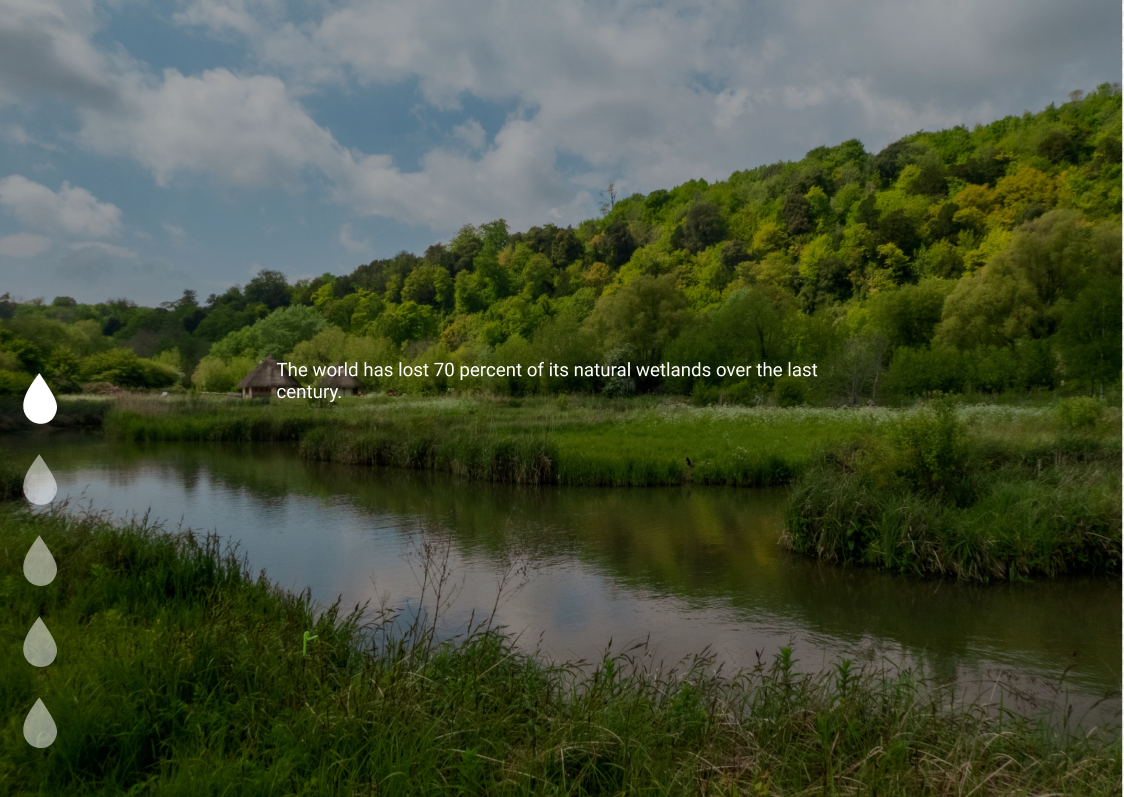
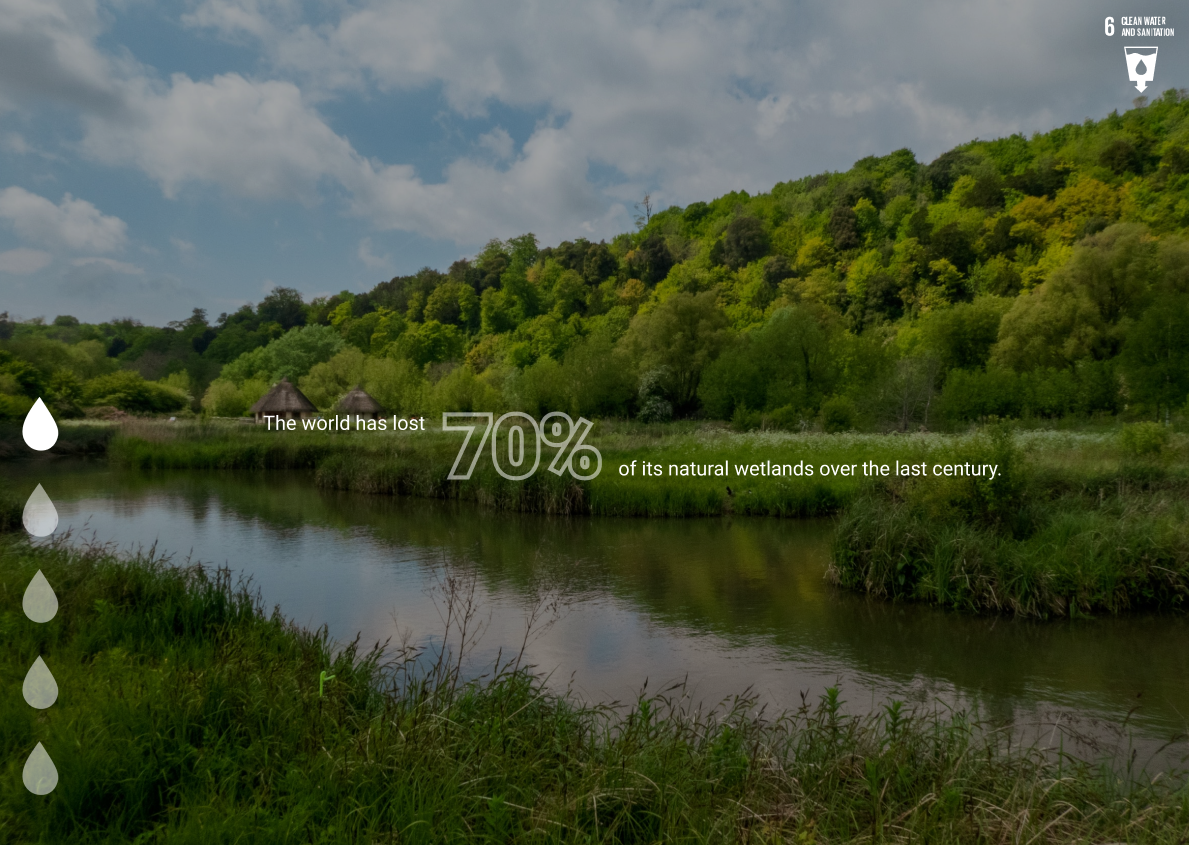
Storyborad changes

diff --git a/README.md b/README.md
@@ -37,11 +37,30 @@ Different background pictures that changes from every scene with information abo
 #### Animation on scene 1: 
 When the user starts to scroll vertically a water drop from the glass will loosen and move from the glas and go down to the bottom of the scene as the same speed as the user scroll. When the water drop starts to move, the logo shrinks and goes to the right top corner of the page. The logo will stick to the corner and stay there through the whole scrollytelling. 
 
+#### Animations on scene 2:
+First will 40% appear, then the text over 40%. This will stand still when the user scrolls. However, the other text scrolls with the user.
+
+#### Animation on scene 6: 
+The text appears in three parts 
+    the world has lost
+    70%
+    of its natural wetlands over the last century
+
+and it is some animation on 70%
 #### Animation on scene 7: 
 Many water drops are moving from the top to the bottom. The water drops are moving behind the text. 
 
+#### Animation on scene 8: 
+The lid to the garbage can moves up and down. 
+
+#### Animation on scene 9: 
+The water glass is filled with water, the animation makes the water go from full to empty. The water glass should be white. 
+
+#### Animation on scene 10: 
+The 2030 is blinking. 
+
 #### Animation on every scene:
-When the user scroll down to the next scene, the background picture will have a fade effect and slowly zoom 10%. The text will come from the buttom and goes to the top in the same speed as the user scroll. The current water drop will move from side to side. As well, the current water drop will fade away when the user has scrolled past the scene. Then a new water drop will appear more white than the other water drops. It is also possible to navigate to the top if the user clicks on the logo. When the user hover over the logo, the opacity will be 50%. 
+When the user scroll down to the next scene, the background picture will have a fade effect and slowly zoom 10%. The text will come from the buttom and goes to the top in the same speed as the user scroll. The statistics stands still when the user scrolls, but with individual animations. The current water drop will move from side to side. As well, the current water drop will fade away when the user has scrolled past the scene. Then a new water drop will appear more white than the other water drops. It is also possible to navigate to the top if the user clicks on the logo. When the user hover over the logo, the opacity will be 50%. 
 
 #### Media queries:
 We will use media queries to stop the animations if the user has turned off the animations on the settings of their desktop. We will also use media queries to affect how the user sees the background picture depending on the device being landscape vs portrait. On the scenes with black background, the media queries will change the background color to white and the text color to black if the user prefers light mode. 
